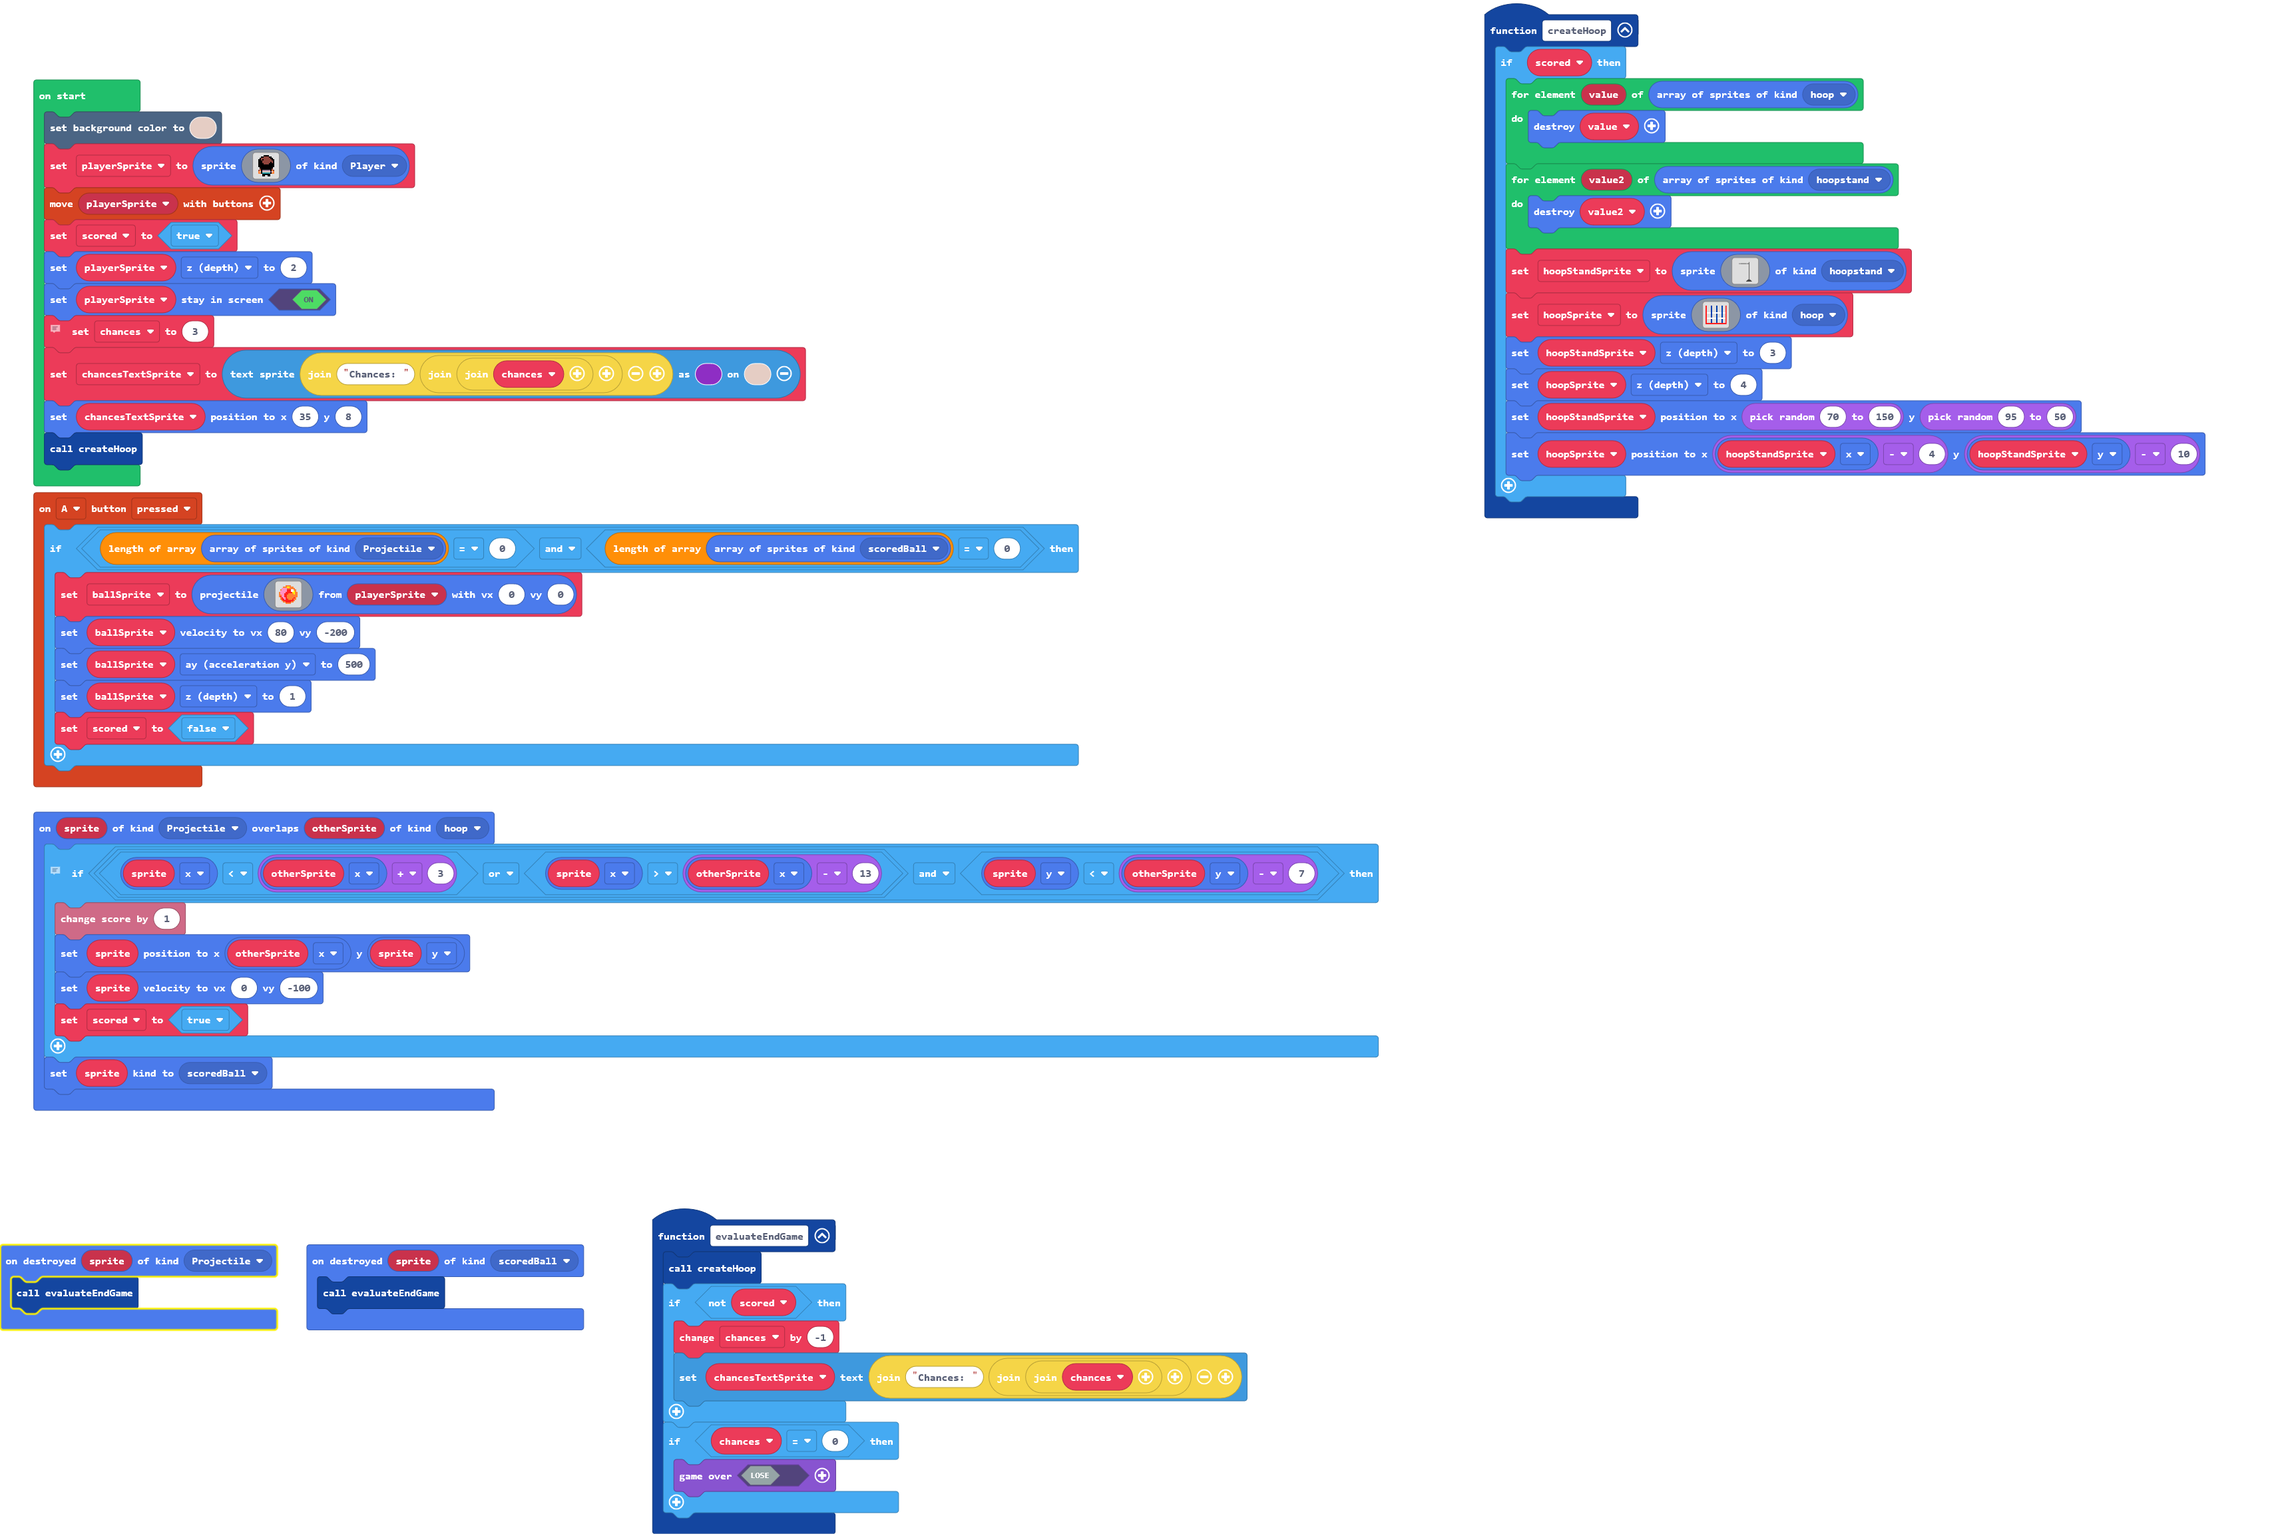
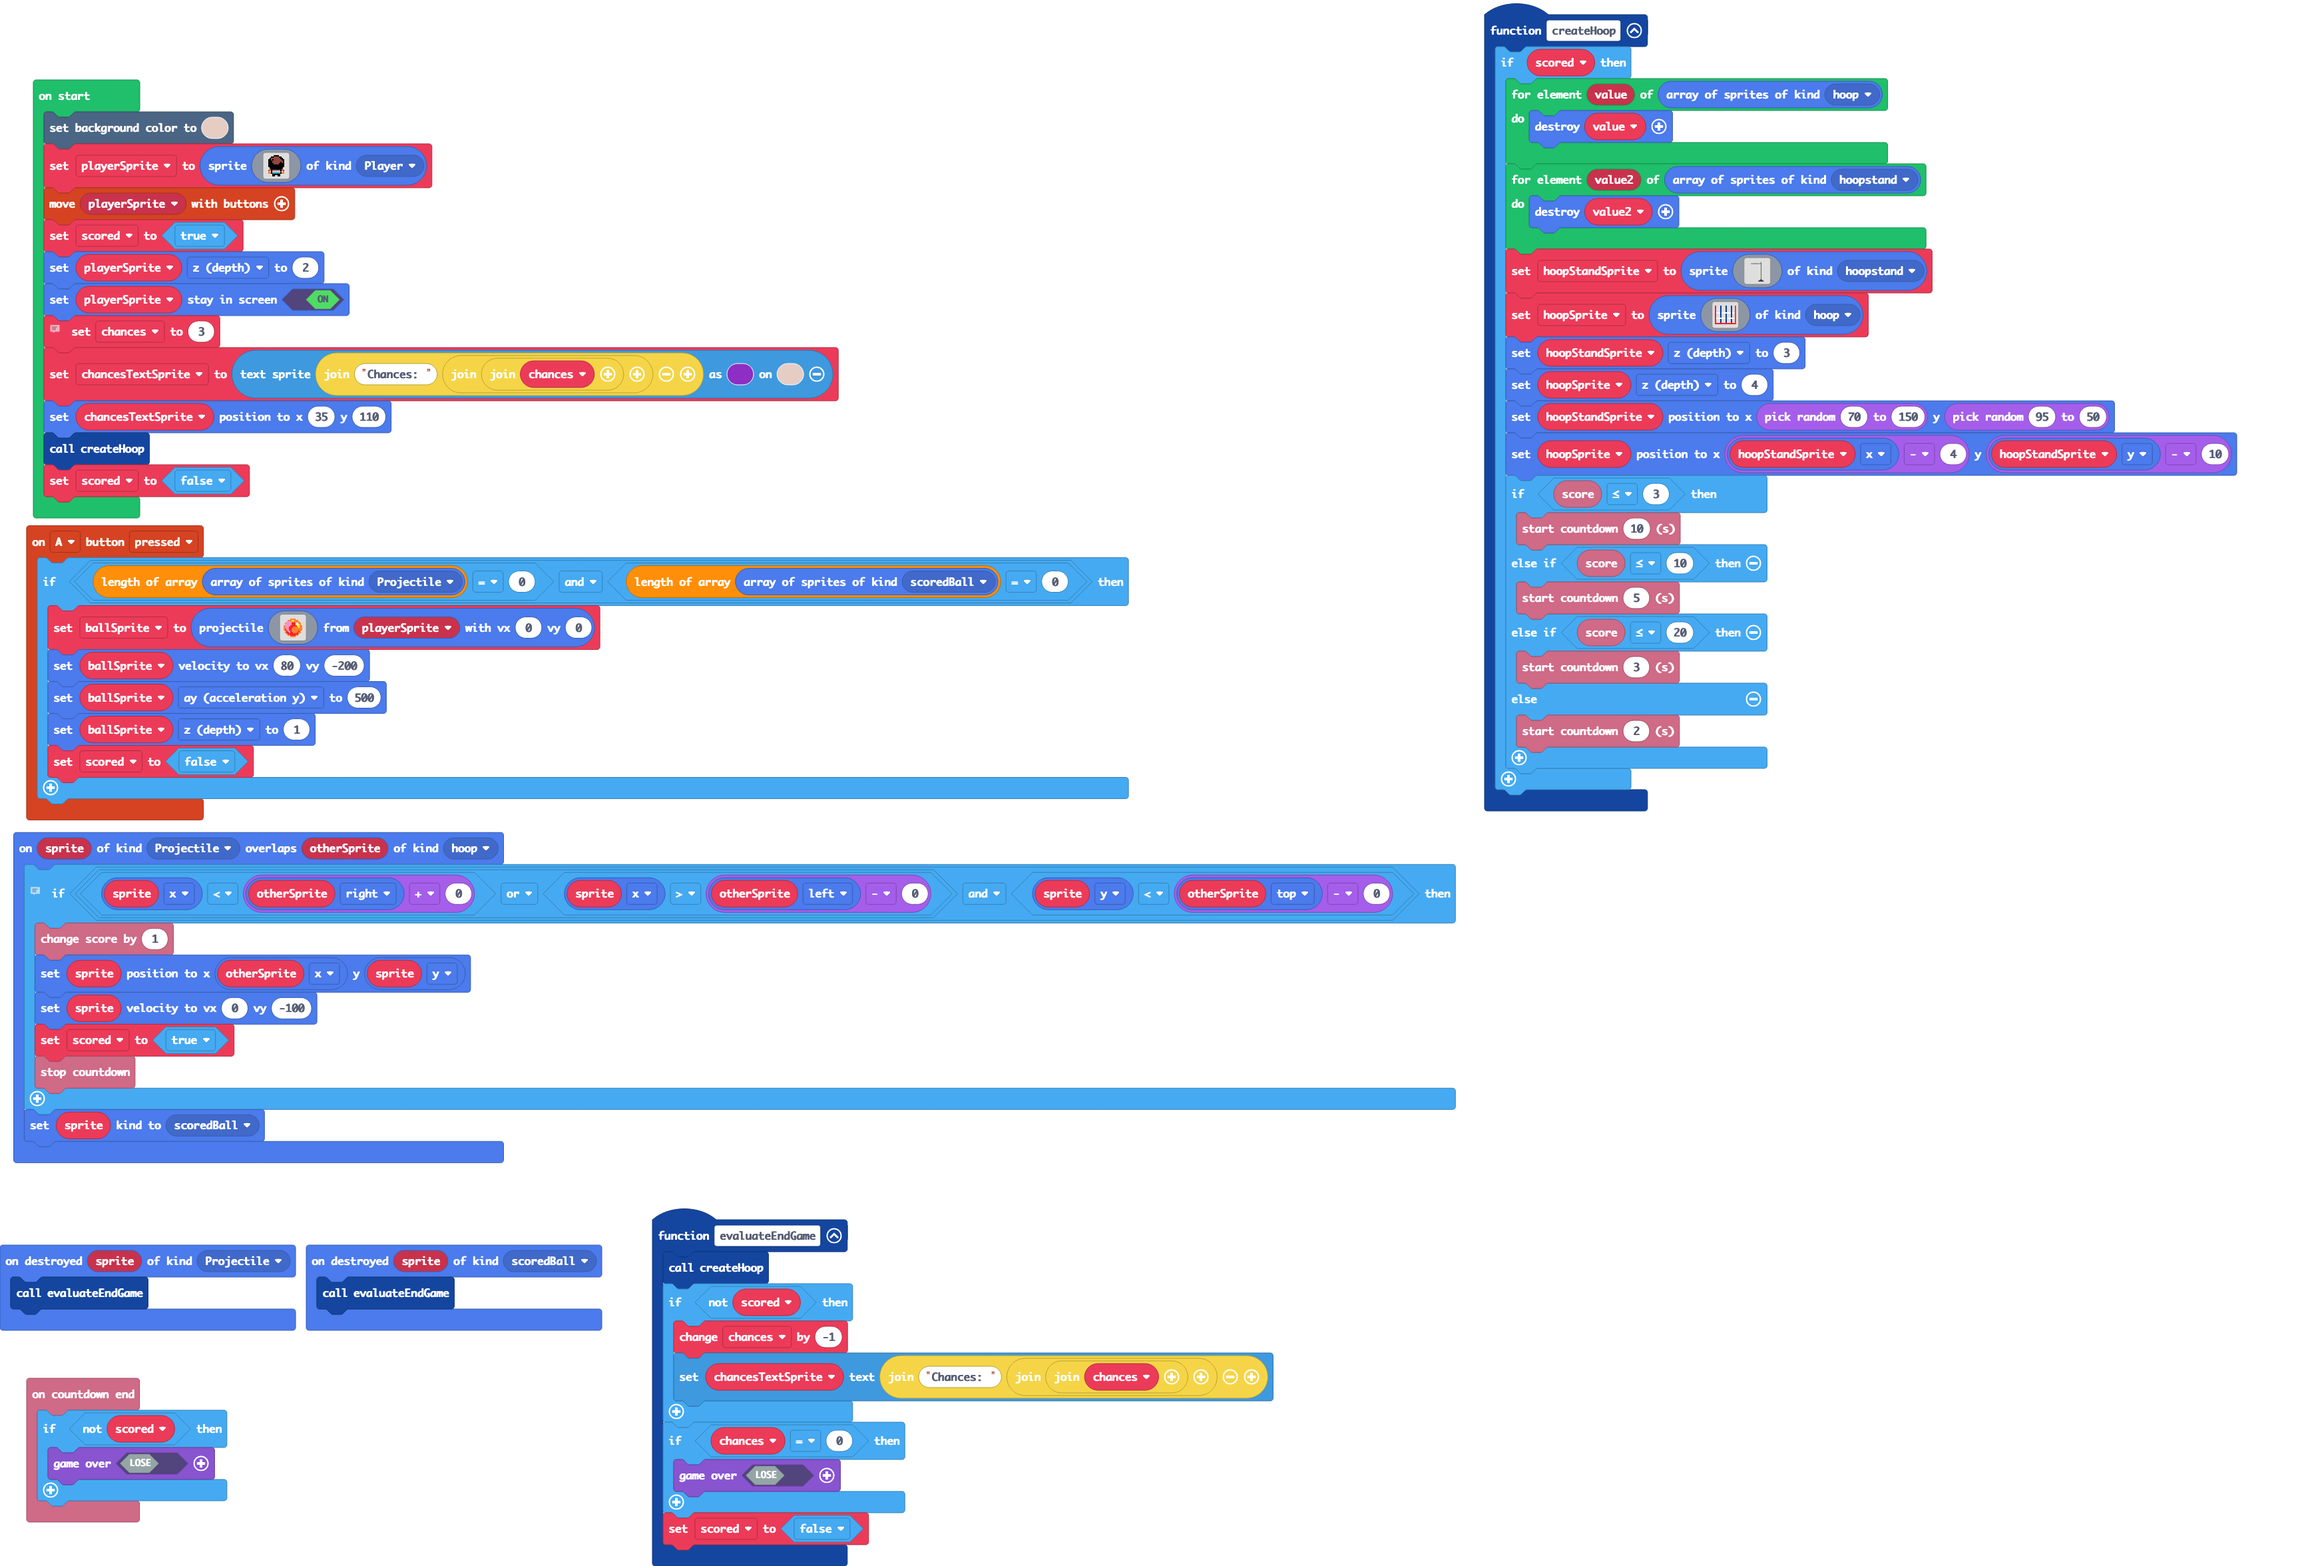
Created chaos via timers

Changed region(s): [[0.0, 0.0, 0.993, 0.75], [0.0, 0.75, 0.5585, 1.0]]

diff --git a/main.ts b/main.ts
@@ -32,6 +32,11 @@ controller.A.onEvent(ControllerButtonEvent.Pressed, function () {
         scored = false
     }
 })
+info.onCountdownEnd(function () {
+    if (!(scored)) {
+        game.over(false)
+    }
+})
 function createHoop () {
     if (scored) {
         for (let value of sprites.allOfKind(SpriteKind.hoop)) {
@@ -110,6 +115,15 @@ function createHoop () {
         hoopSprite.z = 4
         hoopStandSprite.setPosition(randint(70, 150), randint(95, 50))
         hoopSprite.setPosition(hoopStandSprite.x - 4, hoopStandSprite.y - 10)
+        if (info.score() <= 3) {
+            info.startCountdown(10)
+        } else if (info.score() <= 10) {
+            info.startCountdown(5)
+        } else if (info.score() <= 20) {
+            info.startCountdown(3)
+        } else {
+            info.startCountdown(2)
+        }
     }
 }
 sprites.onOverlap(SpriteKind.Projectile, SpriteKind.hoop, function (sprite, otherSprite) {
@@ -117,11 +131,12 @@ sprites.onOverlap(SpriteKind.Projectile, SpriteKind.hoop, function (sprite, othe
     // print("X position of hoop: " + ("" + str(otherSprite.x)))
     // print("Y position of ball: " + ("" + str(sprite.y)))
     // print("Y position of hoop: " + ("" + str(otherSprite.y)))
-    if ((sprite.x < otherSprite.x + 3 || sprite.x > otherSprite.x - 13) && sprite.y < otherSprite.y - 7) {
+    if ((sprite.x < otherSprite.right + 0 || sprite.x > otherSprite.left - 0) && sprite.y < otherSprite.top - 0) {
         info.changeScoreBy(1)
         sprite.setPosition(otherSprite.x, sprite.y)
         sprite.setVelocity(0, -100)
         scored = true
+        info.stopCountdown()
     }
     sprite.setKind(SpriteKind.scoredBall)
 })
@@ -134,6 +149,7 @@ function evaluateEndGame () {
     if (chances == 0) {
         game.over(false)
     }
+    scored = false
 }
 sprites.onDestroyed(SpriteKind.Projectile, function (sprite) {
     evaluateEndGame()
@@ -171,5 +187,6 @@ playerSprite.setStayInScreen(true)
 // let textSprite = textsprite.create("")
 chances = 3
 chancesTextSprite = textsprite.create("Chances: " + ("" + chances), 13, 10)
-chancesTextSprite.setPosition(35, 8)
+chancesTextSprite.setPosition(35, 110)
 createHoop()
+scored = false
